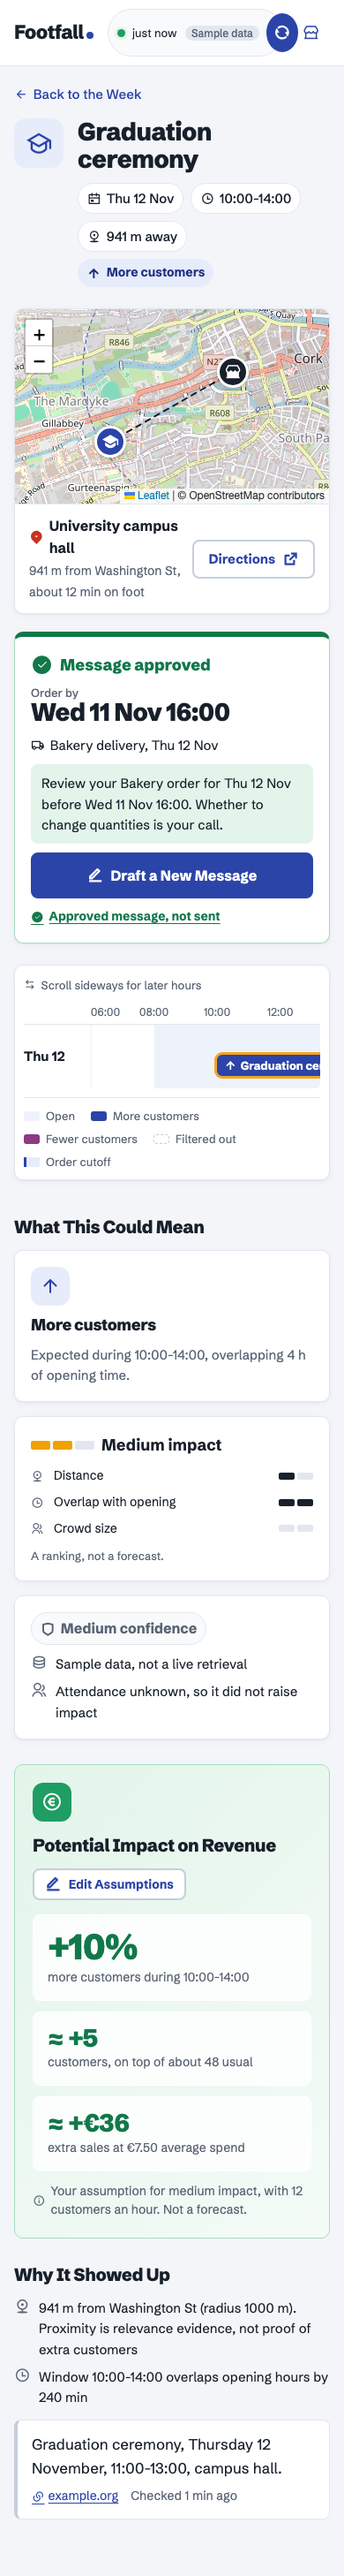
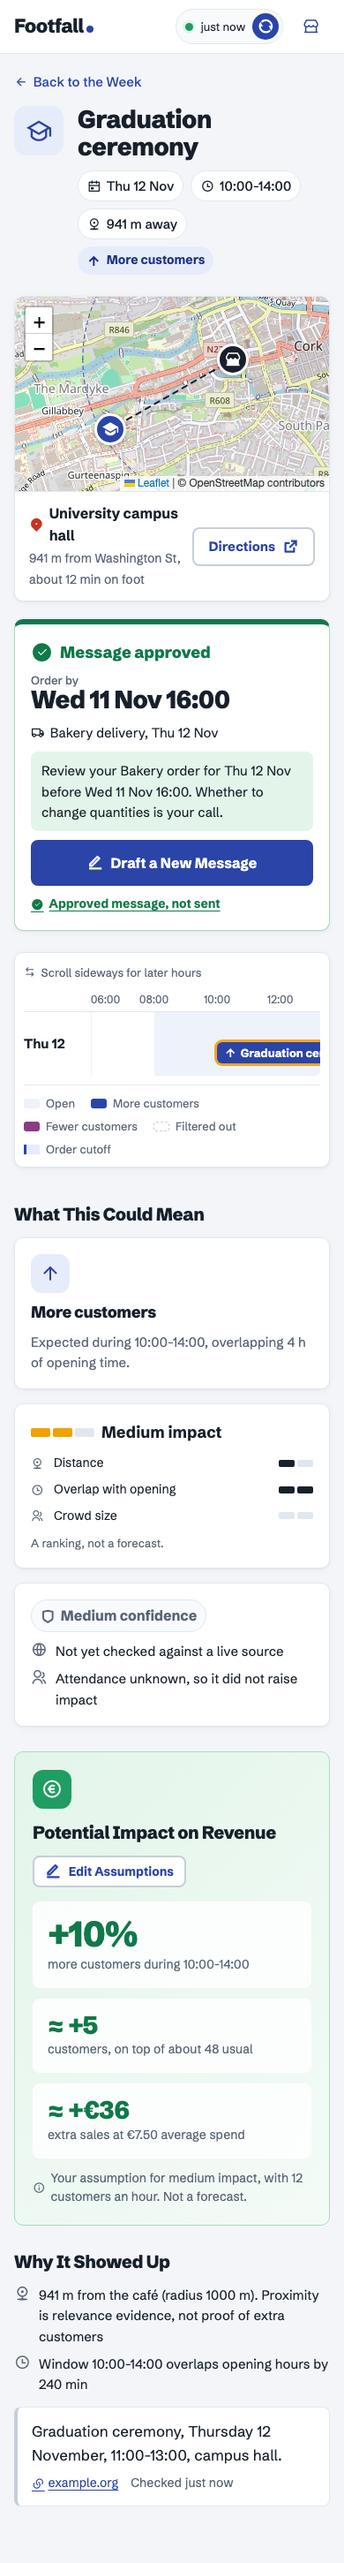
fix: even refresh button in status pill; record second review
- Refresh button is a 30 px circle that sits evenly inside the status
  pill (matches the Figma component).
- Design review record and README updated for per-location hours and the
  removal of sample-data labels; screenshots refreshed.

diff --git a/footfall/static/style.css b/footfall/static/style.css
@@ -44,7 +44,7 @@ p { margin:0; }
 .status-partial .status-dot { background:var(--soon-fill); box-shadow:0 0 0 3px var(--soon-wash); }
 .status-error .status-dot { background:var(--now); box-shadow:0 0 0 3px var(--now-wash); }
 .status-text { white-space:nowrap; overflow:hidden; text-overflow:ellipsis; }
-.icon-btn { display:grid; place-items:center; flex:none; width:36px; height:36px; min-height:0; padding:0; border:0; border-radius:50%; background:var(--brand); color:#fff; font-size:18px; cursor:pointer; transition:background-color .15s; }
+.icon-btn { display:grid; place-items:center; flex:none; width:30px; height:30px; min-height:0; padding:0; border:0; border-radius:50%; background:var(--brand); color:#fff; font-size:16px; cursor:pointer; transition:background-color .15s; }
 .icon-btn:hover { background:var(--brand-dark); }
 .is-busy i { animation:spin 1s linear infinite; }
 @keyframes spin { to { transform:rotate(360deg); } }

diff --git a/docs/design/design-review-2026-11-07.md b/docs/design/design-review-2026-11-07.md
@@ -21,7 +21,7 @@ Impact uses a separate coloured meter (teal, amber, red segments). Icons come fr
 | # | Comment (short) | Change |
 | --- | --- | --- |
 | 1 | Impact pips look like signal bars; want colourful urgency | Coloured 3-segment impact meter; urgency moved to the coloured cutoff status |
-| 2, 5, 7, 16 | Drop "demo"/"fictional" labels | Removed from seed titles, venues, business name and page copy. One small **Sample data** tag stays in the header status (Gate M1 requires prepared data to be visibly labelled) |
+| 2, 5, 7, 16 | Drop "demo"/"fictional" labels | Removed from seed titles, venues, business name and page copy (the header's Sample data tag was removed in the second review) |
 | 3 | Status top right: refresh button, green indicator, "Last updated" | Header status pill: coloured dot, "Updated 12 min ago", refresh icon button, on every page |
 | 4 | Remove filler header text | Removed |
 | 6 | Business as a card with change options | Business card on Home with address and radius, hours, Change links |
@@ -39,6 +39,15 @@ Impact uses a separate coloured meter (teal, amber, red segments). Icons come fr
 | — | Follow-up: no latitude/longitude; allow several addresses | Locations are address rows only, looked up on OpenStreetMap Nominatim when saved (unchanged addresses are never re-looked-up). A business can have several; events are measured from the nearest, which the reason and map name |
 | — | Follow-up: several opening hours, and holidays | Weekly ranges per day (split days allowed) plus dated special days (closed, or different hours) that replace them. The rules use the real schedule: overlap sums across ranges, closures filter events with the holiday name, and the timeline shows each range |
 | 21 | Business / settings page | New `/business` page: profile, location, radius, hours, days, average spend, supplier rules, data controls, inline validation |
+
+## Second Figma review (5 comments, 7 November)
+
+| Comment | Change |
+| --- | --- |
+| Two locations aren't clearly separate (Home) | One numbered block per location: pin badge, name, address, its own hours and next special day |
+| Each location should have its own opening hours; hours per location (Business) | Weekly ranges and holidays now belong to each location. Business page: one card per location with Opening Hours and Holidays & Special Days. Rules use the nearest location's schedule; the timeline shades when any location is open |
+| Refresh button breaks / scaling | The global button rule (44 px min-height, padding) stretched the 36 px circle into an oval. Now a 30 px circle that sits evenly in the status pill, in the app and in Figma |
+| No "Sample data" labels | Removed from the header and the update message; the confidence reason reads "Not yet checked against a live source". The source is still listed under Business → Data. Gate M1's "prepared data visibly labelled" needs the team's agreement to this |
 
 ## Web interface guidelines (vercel-labs/web-interface-guidelines, fetched 7 Nov 2026)
 

diff --git a/docs/FOOTFALL_README.md b/docs/FOOTFALL_README.md
@@ -64,7 +64,7 @@ FOOTFALL_LLM=none python -m scripts.check_llm   # expect: NOT CONFIGURED
 
 ## Honesty labels
 
-- **Prepared** data is fictional sample data. Event titles read naturally, and the header status always shows a **Sample data** label while it is loaded.
+- **Prepared** data is fictional sample data. By Daniel's decision the interface doesn't label it; Business → Data shows the source (sample data or live sources).
 - **Stale** means the last check of a source failed or is older than its refresh interval. Cached events are kept, never deleted.
 - "No events" means none were found in the monitored sources, not complete local coverage.
 - Impact is an ordinal heuristic (see the design doc §6), not a forecast. Approving a draft does not send it.
